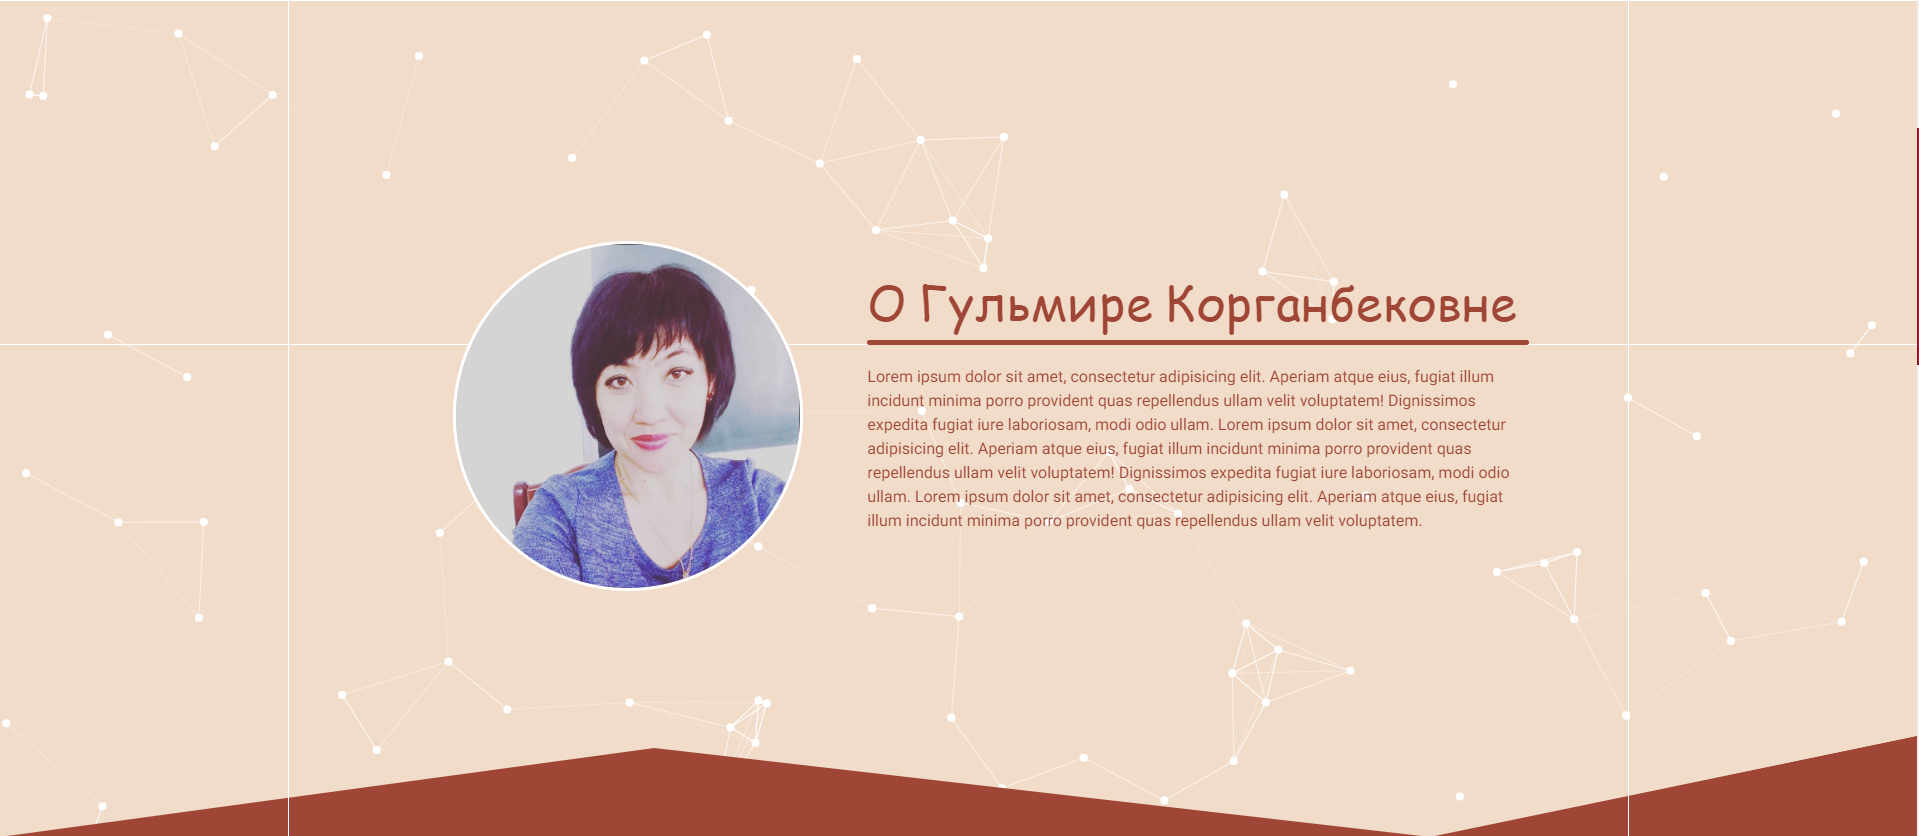
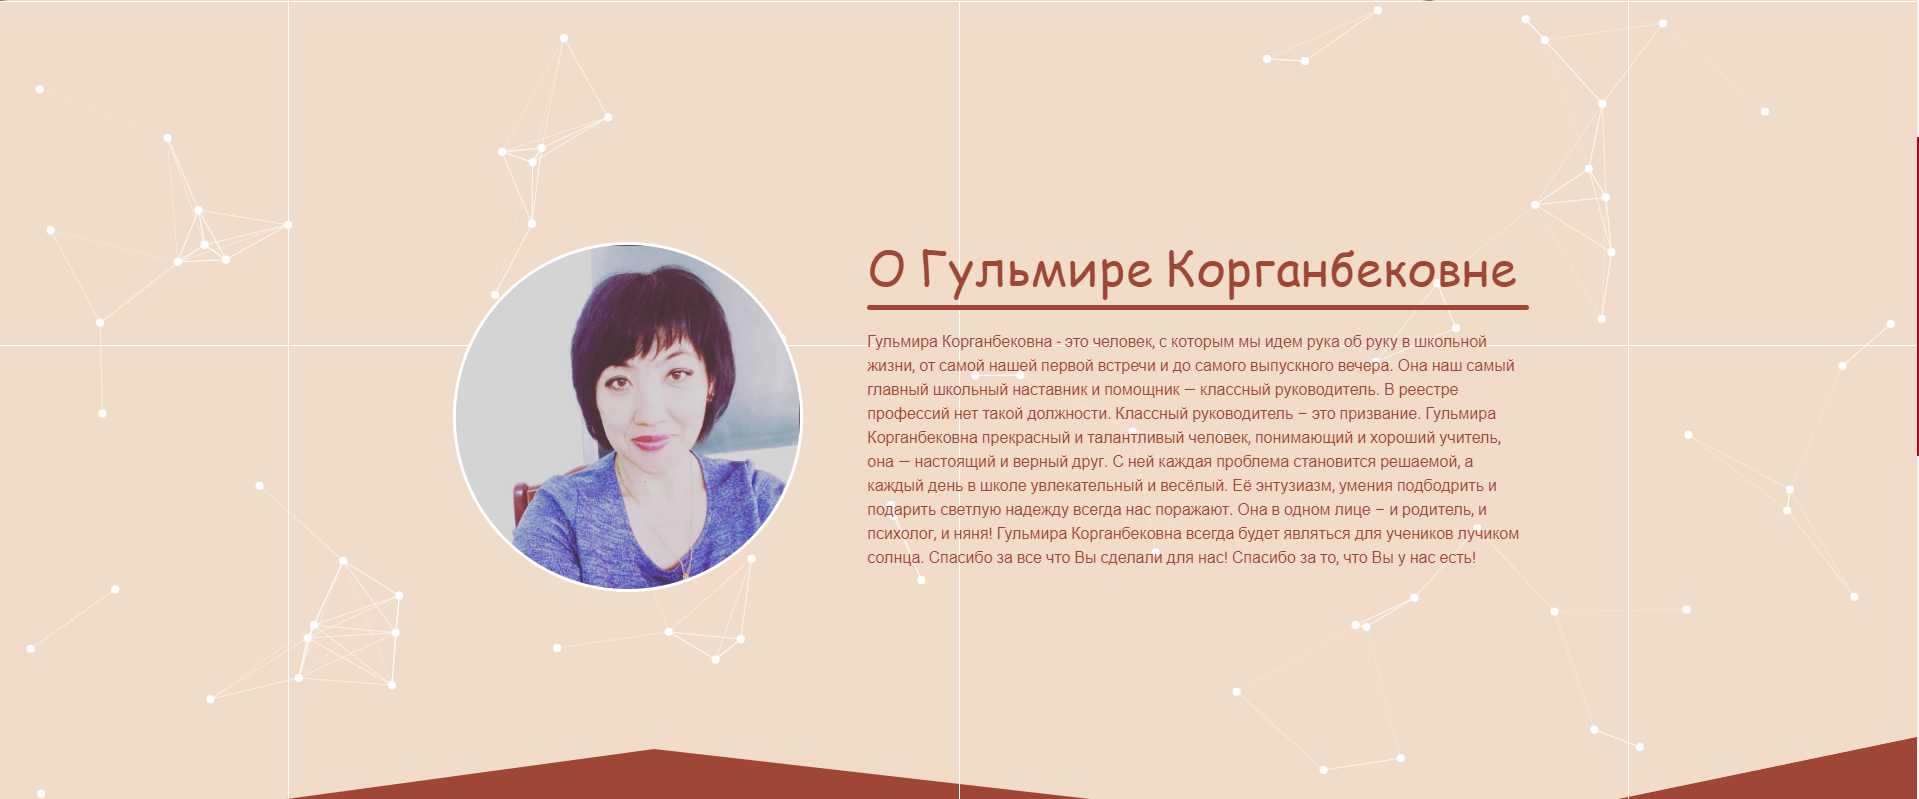
feat: created site for Gulmira Korganbekovna

diff --git a/src/scss/blocks/Menu/Menu.scss b/src/scss/blocks/Menu/Menu.scss
@@ -19,8 +19,8 @@
   &__wrapper {
     width: 100%;
     height: 100%;
-    overflow-y: scroll;
-    padding-right: 8px;
+    overflow-y: auto;
+    overflow-x: hidden;
   }
 
   &__wrapper::-webkit-scrollbar {
@@ -131,7 +131,11 @@
 
   @media all and (max-width: 500px) {
     width: 300px;
-    padding: 30px 35px;
+    padding: 60px 15px;
+
+    &__close-button {
+      top: 5px;
+    }
 
     &__link {
       margin-bottom: 15px;
@@ -145,7 +149,6 @@
 
   @media all and (max-width: 400px) {
     width: 250px;
-    padding: 30px 35px;
 
     &__link {
       margin-bottom: 15px;
@@ -159,7 +162,6 @@
 
   @media all and (max-width: 345px) {
     width: 225px;
-    padding: 30px 7px 30px 41px;
 
     &__link {
       margin-bottom: 15px;

diff --git a/src/scss/blocks/Skills/Skills.scss b/src/scss/blocks/Skills/Skills.scss
@@ -21,6 +21,7 @@
     width: 100%;
     height: 600px;
     background-color: $mainColor;
+    padding: 0 30px;
   }
 
   &__inner {
@@ -198,6 +199,10 @@
       font-size: 2.2rem;
     }
 
+    &__video {
+      height: 350px;
+    }
+
     &__cards-container {
       margin: 0 20px;
       gap: 30px;
@@ -205,7 +210,20 @@
     }
   }
 
+  @media all and (max-width: 425px) {
+    &__video {
+      padding: 0 20px;
+      height: 250px;
+    }
+  }
+
   @media all and (max-width: 400px) {
+    &__title {
+      margin-left: auto;
+      margin-right: auto;
+      max-width: 300px;
+    }
+
     &__card-title {
       font-size: 23px;
       margin-bottom: 20px;

diff --git a/src/scss/blocks/Header/Header.scss b/src/scss/blocks/Header/Header.scss
@@ -241,6 +241,10 @@
 
 @media all and (max-width: 768px) {
   .header {
+    height: 100%;
+    padding-top: 150px;
+    padding-bottom: 120px;
+
     .container {
       max-width: 650px;
     }
@@ -272,6 +276,7 @@
 
 @media all and (max-width: 610px) {
   .header {
+    padding-top: 20px;
     &__copy {
       display: none;
     }
@@ -290,7 +295,7 @@
 
     &__box {
       text-align: center;
-      min-height: 190px;
+      min-height: 195px;
     }
 
     &__image {
@@ -320,6 +325,8 @@
 
 @media all and (max-width: 425px) {
   .header {
+    padding-bottom: 100px;
+
     &__wrap {
       padding: 0 5px;
     }

diff --git a/src/scss/blocks/About/About.scss b/src/scss/blocks/About/About.scss
@@ -166,15 +166,6 @@
       left: 30px;
     }
 
-    &__inner {
-      max-width: 900px;
-    }
-
-    &__image {
-      width: 300px;
-      height: 300px;
-    }
-
     &__list {
       margin-bottom: 0;
 
@@ -187,11 +178,25 @@
   }
 }
 
+@media (max-width: 1160px) {
+  .about {
+    &__title {
+      max-width: 500px;
+
+      &::after {
+        width: 75%;
+      }
+    }
+  }
+}
+
 @media (max-width: 1024px) {
   .about {
     height: auto;
 
     &__title {
+      margin: 0 auto 30px;
+
       &::after {
         left: 50%;
         transform: translateX(-50%);

diff --git a/src/App.tsx b/src/App.tsx
@@ -29,7 +29,7 @@ const App = () => {
   return (
     <div className="wrapper">
       <Header handleOpenBurgerMenu={handleOpenBurgerMenu}/>
-      {/*<About/>*/}
+      <About/>
       <Skills/>
       <Menu
         isMenuActive={isMenuActive}

diff --git a/src/scss/common/_global.scss b/src/scss/common/_global.scss
@@ -4,6 +4,7 @@ body {
 
   background-color: $mainColor;
   color: #ffffff;
+  overflow-x: hidden;
 
   &::-webkit-scrollbar {
     width: 3px;
